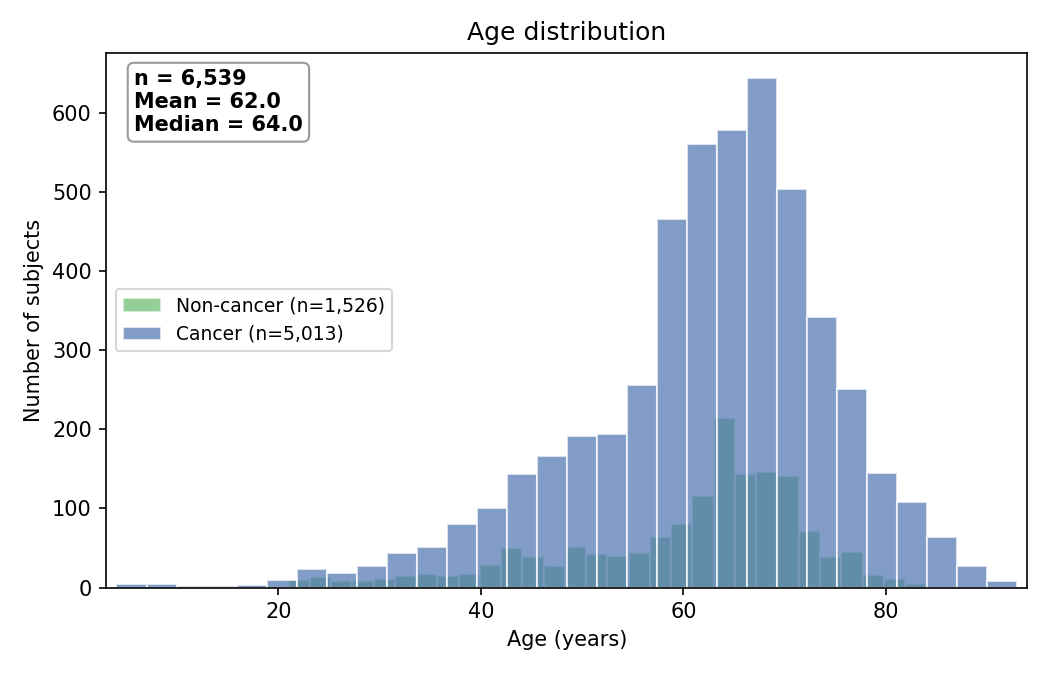
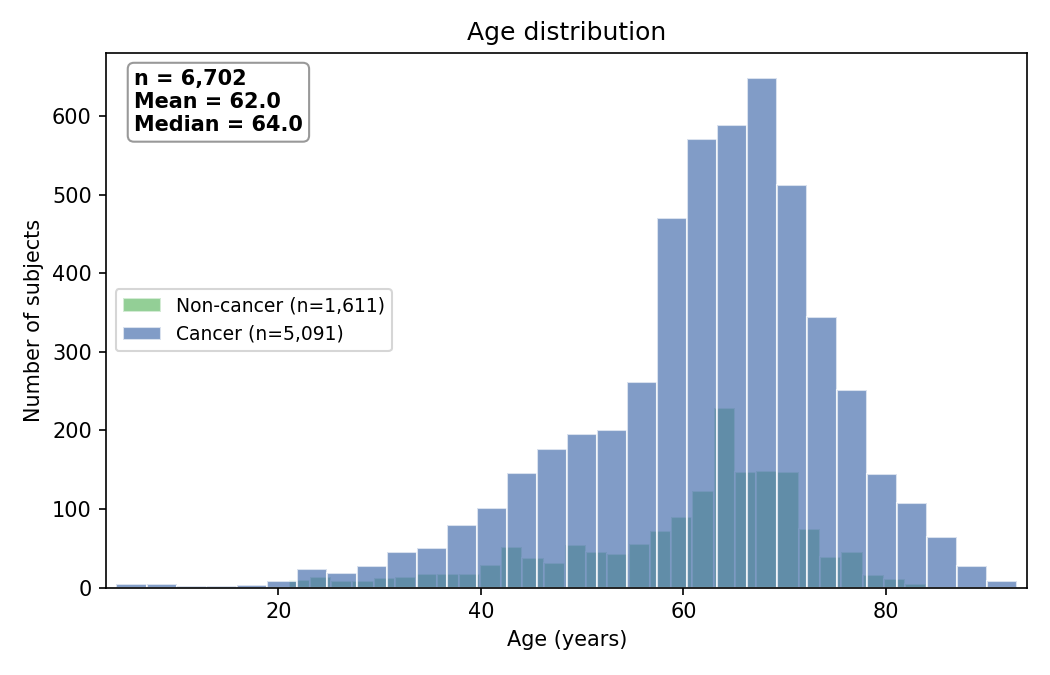
Update dashboard 2026-09-08 15:10

diff --git a/global_map.html b/global_map.html
@@ -2,6 +2,6 @@
 <head><meta charset="utf-8" /></head>
 <body>
     <div style="height:500px; width:100%;">                        <script>window.PlotlyConfig = {MathJaxConfig: 'local'};</script>
-        <script charset="utf-8" src="https://cdn.plot.ly/plotly-3.7.0.min.js" integrity="sha256-jvTGqxNp8AGWEcvNLVuKr+8j5dGe9Yw51LQkmDH+IYA=" crossorigin="anonymous"></script>                <div id="85c4ba30-f405-46a7-adb1-b81d0f31154e" class="plotly-graph-div" style="height:100%; width:100%;"></div>            <script>                window.PLOTLYENV=window.PLOTLYENV || {};                                if (document.getElementById("85c4ba30-f405-46a7-adb1-b81d0f31154e")) {                    Plotly.newPlot(                        "85c4ba30-f405-46a7-adb1-b81d0f31154e",                        [{"colorscale":[[0,"#FEF9E7"],[1,"#E59866"]],"hoverinfo":"text","locations":["AUT","CAN","CHN","CZE","FRA","DEU","IND","ISR","ITA","JPN","NLD","POL","KOR","ESP","CHE","TUR","GBR","USA"],"marker":{"line":{"color":"white","width":0.5}},"showscale":false,"text":["\u003cb\u003eAustria\u003c\u002fb\u003e\u003cbr\u003eTotal samples: 154\u003cbr\u003eStudies: 1\u003cbr\u003e\u2500\u2500\u2500\u2500\u2500\u2500\u2500\u2500\u2500\u2500\u2500\u2500\u2500\u003cbr\u003eCRC: 93","\u003cb\u003eCanada\u003c\u002fb\u003e\u003cbr\u003eTotal samples: 98\u003cbr\u003eStudies: 2\u003cbr\u003e\u2500\u2500\u2500\u2500\u2500\u2500\u2500\u2500\u2500\u2500\u2500\u2500\u2500\u003cbr\u003eMelanoma: 60\u003cbr\u003eCRC: 24","\u003cb\u003eChina\u003c\u002fb\u003e\u003cbr\u003eTotal samples: 756\u003cbr\u003eStudies: 7\u003cbr\u003e\u2500\u2500\u2500\u2500\u2500\u2500\u2500\u2500\u2500\u2500\u2500\u2500\u2500\u003cbr\u003eCRC: 418\u003cbr\u003eLymphoma: 111\u003cbr\u003eLeukemia: 20","\u003cb\u003eCzech Republic\u003c\u002fb\u003e\u003cbr\u003eTotal samples: 327\u003cbr\u003eStudies: 2\u003cbr\u003e\u2500\u2500\u2500\u2500\u2500\u2500\u2500\u2500\u2500\u2500\u2500\u2500\u2500\u003cbr\u003eCRC: 281","\u003cb\u003eFrance\u003c\u002fb\u003e\u003cbr\u003eTotal samples: 1,373\u003cbr\u003eStudies: 4\u003cbr\u003e\u2500\u2500\u2500\u2500\u2500\u2500\u2500\u2500\u2500\u2500\u2500\u2500\u2500\u003cbr\u003eLung Cancer: 1,217\u003cbr\u003eCRC: 95","\u003cb\u003eGermany\u003c\u002fb\u003e\u003cbr\u003eTotal samples: 430\u003cbr\u003eStudies: 3\u003cbr\u003e\u2500\u2500\u2500\u2500\u2500\u2500\u2500\u2500\u2500\u2500\u2500\u2500\u2500\u003cbr\u003eLymphoma: 229\u003cbr\u003ePancreatic Cancer: 76\u003cbr\u003eCRC: 60","\u003cb\u003eIndia\u003c\u002fb\u003e\u003cbr\u003eTotal samples: 90\u003cbr\u003eStudies: 2\u003cbr\u003e\u2500\u2500\u2500\u2500\u2500\u2500\u2500\u2500\u2500\u2500\u2500\u2500\u2500\u003cbr\u003eCRC: 60","\u003cb\u003eIsrael\u003c\u002fb\u003e\u003cbr\u003eTotal samples: 42\u003cbr\u003eStudies: 1\u003cbr\u003e\u2500\u2500\u2500\u2500\u2500\u2500\u2500\u2500\u2500\u2500\u2500\u2500\u2500\u003cbr\u003eMelanoma: 42","\u003cb\u003eItaly\u003c\u002fb\u003e\u003cbr\u003eTotal samples: 484\u003cbr\u003eStudies: 4\u003cbr\u003e\u2500\u2500\u2500\u2500\u2500\u2500\u2500\u2500\u2500\u2500\u2500\u2500\u2500\u003cbr\u003eCRC: 373","\u003cb\u003eJapan\u003c\u002fb\u003e\u003cbr\u003eTotal samples: 1,766\u003cbr\u003eStudies: 4\u003cbr\u003e\u2500\u2500\u2500\u2500\u2500\u2500\u2500\u2500\u2500\u2500\u2500\u2500\u2500\u003cbr\u003eCRC: 807\u003cbr\u003ePancreatic Cancer: 560","\u003cb\u003eNetherlands\u003c\u002fb\u003e\u003cbr\u003eTotal samples: 75\u003cbr\u003eStudies: 2\u003cbr\u003e\u2500\u2500\u2500\u2500\u2500\u2500\u2500\u2500\u2500\u2500\u2500\u2500\u2500\u003cbr\u003eMelanoma: 75","\u003cb\u003ePoland\u003c\u002fb\u003e\u003cbr\u003eTotal samples: 322\u003cbr\u003eStudies: 2\u003cbr\u003e\u2500\u2500\u2500\u2500\u2500\u2500\u2500\u2500\u2500\u2500\u2500\u2500\u2500\u003cbr\u003eBreast Cancer: 153\u003cbr\u003eLymphoma: 60\u003cbr\u003eLeukemia: 40","\u003cb\u003eSouth Korea\u003c\u002fb\u003e\u003cbr\u003eTotal samples: 149\u003cbr\u003eStudies: 2\u003cbr\u003e\u2500\u2500\u2500\u2500\u2500\u2500\u2500\u2500\u2500\u2500\u2500\u2500\u2500\u003cbr\u003eLymphoma: 149","\u003cb\u003eSpain\u003c\u002fb\u003e\u003cbr\u003eTotal samples: 355\u003cbr\u003eStudies: 3\u003cbr\u003e\u2500\u2500\u2500\u2500\u2500\u2500\u2500\u2500\u2500\u2500\u2500\u2500\u2500\u003cbr\u003ePancreatic Cancer: 253\u003cbr\u003eCRC: 90\u003cbr\u003eMelanoma: 12","\u003cb\u003eSwitzerland\u003c\u002fb\u003e\u003cbr\u003eTotal samples: 29\u003cbr\u003eStudies: 1\u003cbr\u003e\u2500\u2500\u2500\u2500\u2500\u2500\u2500\u2500\u2500\u2500\u2500\u2500\u2500\u003cbr\u003eProstate Cancer: 29","\u003cb\u003eTurkey\u003c\u002fb\u003e\u003cbr\u003eTotal samples: 57\u003cbr\u003eStudies: 1\u003cbr\u003e\u2500\u2500\u2500\u2500\u2500\u2500\u2500\u2500\u2500\u2500\u2500\u2500\u2500\u003cbr\u003eCRC: 18","\u003cb\u003eUnited Kingdom\u003c\u002fb\u003e\u003cbr\u003eTotal samples: 143\u003cbr\u003eStudies: 2\u003cbr\u003e\u2500\u2500\u2500\u2500\u2500\u2500\u2500\u2500\u2500\u2500\u2500\u2500\u2500\u003cbr\u003eMelanoma: 98\u003cbr\u003eProstate Cancer: 45","\u003cb\u003eUnited States\u003c\u002fb\u003e\u003cbr\u003eTotal samples: 2,096\u003cbr\u003eStudies: 13\u003cbr\u003e\u2500\u2500\u2500\u2500\u2500\u2500\u2500\u2500\u2500\u2500\u2500\u2500\u2500\u003cbr\u003eCRC: 836\u003cbr\u003eMelanoma: 607\u003cbr\u003eLymphoma: 122"],"z":{"dtype":"i2","bdata":"mgBiAPQCRwFdBa4BWgAqAOQB5gZLAEIBlQBjAR0AOQCPADAI"},"type":"choropleth"},{"hoverinfo":"text","locations":["AUT","CAN","CHN","CZE","FRA","DEU","IND","ISR","ITA","JPN","NLD","POL","KOR","ESP","CHE","TUR","GBR","USA"],"marker":{"color":"#2166AC","line":{"color":"white","width":1},"opacity":0.7,"size":{"dtype":"f8","bdata":"AAAAAAAAIEAAAAAAAAAgQD0K16NwPS5AAAAAAAAAIED2KFyPwnU7QDMzMzMzMyFAAAAAAAAAIEAAAAAAAAAgQFyPwvUoXCNAKVyPwvWoQUAAAAAAAAAgQAAAAAAAACBAAAAAAAAAIEAAAAAAAAAgQAAAAAAAACBAAAAAAAAAIEAAAAAAAAAgQPYoXI\u002fC9URA"}},"mode":"markers","text":["\u003cb\u003eAustria\u003c\u002fb\u003e\u003cbr\u003eTotal samples: 154\u003cbr\u003eStudies: 1\u003cbr\u003e\u2500\u2500\u2500\u2500\u2500\u2500\u2500\u2500\u2500\u2500\u2500\u2500\u2500\u003cbr\u003eCRC: 93","\u003cb\u003eCanada\u003c\u002fb\u003e\u003cbr\u003eTotal samples: 98\u003cbr\u003eStudies: 2\u003cbr\u003e\u2500\u2500\u2500\u2500\u2500\u2500\u2500\u2500\u2500\u2500\u2500\u2500\u2500\u003cbr\u003eMelanoma: 60\u003cbr\u003eCRC: 24","\u003cb\u003eChina\u003c\u002fb\u003e\u003cbr\u003eTotal samples: 756\u003cbr\u003eStudies: 7\u003cbr\u003e\u2500\u2500\u2500\u2500\u2500\u2500\u2500\u2500\u2500\u2500\u2500\u2500\u2500\u003cbr\u003eCRC: 418\u003cbr\u003eLymphoma: 111\u003cbr\u003eLeukemia: 20","\u003cb\u003eCzech Republic\u003c\u002fb\u003e\u003cbr\u003eTotal samples: 327\u003cbr\u003eStudies: 2\u003cbr\u003e\u2500\u2500\u2500\u2500\u2500\u2500\u2500\u2500\u2500\u2500\u2500\u2500\u2500\u003cbr\u003eCRC: 281","\u003cb\u003eFrance\u003c\u002fb\u003e\u003cbr\u003eTotal samples: 1,373\u003cbr\u003eStudies: 4\u003cbr\u003e\u2500\u2500\u2500\u2500\u2500\u2500\u2500\u2500\u2500\u2500\u2500\u2500\u2500\u003cbr\u003eLung Cancer: 1,217\u003cbr\u003eCRC: 95","\u003cb\u003eGermany\u003c\u002fb\u003e\u003cbr\u003eTotal samples: 430\u003cbr\u003eStudies: 3\u003cbr\u003e\u2500\u2500\u2500\u2500\u2500\u2500\u2500\u2500\u2500\u2500\u2500\u2500\u2500\u003cbr\u003eLymphoma: 229\u003cbr\u003ePancreatic Cancer: 76\u003cbr\u003eCRC: 60","\u003cb\u003eIndia\u003c\u002fb\u003e\u003cbr\u003eTotal samples: 90\u003cbr\u003eStudies: 2\u003cbr\u003e\u2500\u2500\u2500\u2500\u2500\u2500\u2500\u2500\u2500\u2500\u2500\u2500\u2500\u003cbr\u003eCRC: 60","\u003cb\u003eIsrael\u003c\u002fb\u003e\u003cbr\u003eTotal samples: 42\u003cbr\u003eStudies: 1\u003cbr\u003e\u2500\u2500\u2500\u2500\u2500\u2500\u2500\u2500\u2500\u2500\u2500\u2500\u2500\u003cbr\u003eMelanoma: 42","\u003cb\u003eItaly\u003c\u002fb\u003e\u003cbr\u003eTotal samples: 484\u003cbr\u003eStudies: 4\u003cbr\u003e\u2500\u2500\u2500\u2500\u2500\u2500\u2500\u2500\u2500\u2500\u2500\u2500\u2500\u003cbr\u003eCRC: 373","\u003cb\u003eJapan\u003c\u002fb\u003e\u003cbr\u003eTotal samples: 1,766\u003cbr\u003eStudies: 4\u003cbr\u003e\u2500\u2500\u2500\u2500\u2500\u2500\u2500\u2500\u2500\u2500\u2500\u2500\u2500\u003cbr\u003eCRC: 807\u003cbr\u003ePancreatic Cancer: 560","\u003cb\u003eNetherlands\u003c\u002fb\u003e\u003cbr\u003eTotal samples: 75\u003cbr\u003eStudies: 2\u003cbr\u003e\u2500\u2500\u2500\u2500\u2500\u2500\u2500\u2500\u2500\u2500\u2500\u2500\u2500\u003cbr\u003eMelanoma: 75","\u003cb\u003ePoland\u003c\u002fb\u003e\u003cbr\u003eTotal samples: 322\u003cbr\u003eStudies: 2\u003cbr\u003e\u2500\u2500\u2500\u2500\u2500\u2500\u2500\u2500\u2500\u2500\u2500\u2500\u2500\u003cbr\u003eBreast Cancer: 153\u003cbr\u003eLymphoma: 60\u003cbr\u003eLeukemia: 40","\u003cb\u003eSouth Korea\u003c\u002fb\u003e\u003cbr\u003eTotal samples: 149\u003cbr\u003eStudies: 2\u003cbr\u003e\u2500\u2500\u2500\u2500\u2500\u2500\u2500\u2500\u2500\u2500\u2500\u2500\u2500\u003cbr\u003eLymphoma: 149","\u003cb\u003eSpain\u003c\u002fb\u003e\u003cbr\u003eTotal samples: 355\u003cbr\u003eStudies: 3\u003cbr\u003e\u2500\u2500\u2500\u2500\u2500\u2500\u2500\u2500\u2500\u2500\u2500\u2500\u2500\u003cbr\u003ePancreatic Cancer: 253\u003cbr\u003eCRC: 90\u003cbr\u003eMelanoma: 12","\u003cb\u003eSwitzerland\u003c\u002fb\u003e\u003cbr\u003eTotal samples: 29\u003cbr\u003eStudies: 1\u003cbr\u003e\u2500\u2500\u2500\u2500\u2500\u2500\u2500\u2500\u2500\u2500\u2500\u2500\u2500\u003cbr\u003eProstate Cancer: 29","\u003cb\u003eTurkey\u003c\u002fb\u003e\u003cbr\u003eTotal samples: 57\u003cbr\u003eStudies: 1\u003cbr\u003e\u2500\u2500\u2500\u2500\u2500\u2500\u2500\u2500\u2500\u2500\u2500\u2500\u2500\u003cbr\u003eCRC: 18","\u003cb\u003eUnited Kingdom\u003c\u002fb\u003e\u003cbr\u003eTotal samples: 143\u003cbr\u003eStudies: 2\u003cbr\u003e\u2500\u2500\u2500\u2500\u2500\u2500\u2500\u2500\u2500\u2500\u2500\u2500\u2500\u003cbr\u003eMelanoma: 98\u003cbr\u003eProstate Cancer: 45","\u003cb\u003eUnited States\u003c\u002fb\u003e\u003cbr\u003eTotal samples: 2,096\u003cbr\u003eStudies: 13\u003cbr\u003e\u2500\u2500\u2500\u2500\u2500\u2500\u2500\u2500\u2500\u2500\u2500\u2500\u2500\u003cbr\u003eCRC: 836\u003cbr\u003eMelanoma: 607\u003cbr\u003eLymphoma: 122"],"type":"scattergeo"}],                        {"template":{"data":{"histogram2dcontour":[{"type":"histogram2dcontour","colorbar":{"outlinewidth":0,"ticks":""},"colorscale":[[0.0,"#0d0887"],[0.1111111111111111,"#46039f"],[0.2222222222222222,"#7201a8"],[0.3333333333333333,"#9c179e"],[0.4444444444444444,"#bd3786"],[0.5555555555555556,"#d8576b"],[0.6666666666666666,"#ed7953"],[0.7777777777777778,"#fb9f3a"],[0.8888888888888888,"#fdca26"],[1.0,"#f0f921"]]}],"choropleth":[{"type":"choropleth","colorbar":{"outlinewidth":0,"ticks":""}}],"histogram2d":[{"type":"histogram2d","colorbar":{"outlinewidth":0,"ticks":""},"colorscale":[[0.0,"#0d0887"],[0.1111111111111111,"#46039f"],[0.2222222222222222,"#7201a8"],[0.3333333333333333,"#9c179e"],[0.4444444444444444,"#bd3786"],[0.5555555555555556,"#d8576b"],[0.6666666666666666,"#ed7953"],[0.7777777777777778,"#fb9f3a"],[0.8888888888888888,"#fdca26"],[1.0,"#f0f921"]]}],"heatmap":[{"type":"heatmap","colorbar":{"outlinewidth":0,"ticks":""},"colorscale":[[0.0,"#0d0887"],[0.1111111111111111,"#46039f"],[0.2222222222222222,"#7201a8"],[0.3333333333333333,"#9c179e"],[0.4444444444444444,"#bd3786"],[0.5555555555555556,"#d8576b"],[0.6666666666666666,"#ed7953"],[0.7777777777777778,"#fb9f3a"],[0.8888888888888888,"#fdca26"],[1.0,"#f0f921"]]}],"contourcarpet":[{"type":"contourcarpet","colorbar":{"outlinewidth":0,"ticks":""}}],"contour":[{"type":"contour","colorbar":{"outlinewidth":0,"ticks":""},"colorscale":[[0.0,"#0d0887"],[0.1111111111111111,"#46039f"],[0.2222222222222222,"#7201a8"],[0.3333333333333333,"#9c179e"],[0.4444444444444444,"#bd3786"],[0.5555555555555556,"#d8576b"],[0.6666666666666666,"#ed7953"],[0.7777777777777778,"#fb9f3a"],[0.8888888888888888,"#fdca26"],[1.0,"#f0f921"]]}],"surface":[{"type":"surface","colorbar":{"outlinewidth":0,"ticks":""},"colorscale":[[0.0,"#0d0887"],[0.1111111111111111,"#46039f"],[0.2222222222222222,"#7201a8"],[0.3333333333333333,"#9c179e"],[0.4444444444444444,"#bd3786"],[0.5555555555555556,"#d8576b"],[0.6666666666666666,"#ed7953"],[0.7777777777777778,"#fb9f3a"],[0.8888888888888888,"#fdca26"],[1.0,"#f0f921"]]}],"mesh3d":[{"type":"mesh3d","colorbar":{"outlinewidth":0,"ticks":""}}],"scatter":[{"fillpattern":{"fillmode":"overlay","size":10,"solidity":0.2},"type":"scatter"}],"parcoords":[{"type":"parcoords","line":{"colorbar":{"outlinewidth":0,"ticks":""}}}],"scatterpolargl":[{"type":"scatterpolargl","marker":{"colorbar":{"outlinewidth":0,"ticks":""}}}],"bar":[{"error_x":{"color":"#2a3f5f"},"error_y":{"color":"#2a3f5f"},"marker":{"line":{"color":"#E5ECF6","width":0.5},"pattern":{"fillmode":"overlay","size":10,"solidity":0.2}},"type":"bar"}],"scattergeo":[{"type":"scattergeo","marker":{"colorbar":{"outlinewidth":0,"ticks":""}}}],"scatterpolar":[{"type":"scatterpolar","marker":{"colorbar":{"outlinewidth":0,"ticks":""}}}],"histogram":[{"marker":{"pattern":{"fillmode":"overlay","size":10,"solidity":0.2}},"type":"histogram"}],"scattergl":[{"type":"scattergl","marker":{"colorbar":{"outlinewidth":0,"ticks":""}}}],"scatter3d":[{"type":"scatter3d","line":{"colorbar":{"outlinewidth":0,"ticks":""}},"marker":{"colorbar":{"outlinewidth":0,"ticks":""}}}],"scattermap":[{"type":"scattermap","marker":{"colorbar":{"outlinewidth":0,"ticks":""}}}],"scattermapbox":[{"type":"scattermapbox","marker":{"colorbar":{"outlinewidth":0,"ticks":""}}}],"scatterternary":[{"type":"scatterternary","marker":{"colorbar":{"outlinewidth":0,"ticks":""}}}],"scattercarpet":[{"type":"scattercarpet","marker":{"colorbar":{"outlinewidth":0,"ticks":""}}}],"carpet":[{"aaxis":{"endlinecolor":"#2a3f5f","gridcolor":"white","linecolor":"white","minorgridcolor":"white","startlinecolor":"#2a3f5f"},"baxis":{"endlinecolor":"#2a3f5f","gridcolor":"white","linecolor":"white","minorgridcolor":"white","startlinecolor":"#2a3f5f"},"type":"carpet"}],"table":[{"cells":{"fill":{"color":"#EBF0F8"},"line":{"color":"white"}},"header":{"fill":{"color":"#C8D4E3"},"line":{"color":"white"}},"type":"table"}],"barpolar":[{"marker":{"line":{"color":"#E5ECF6","width":0.5},"pattern":{"fillmode":"overlay","size":10,"solidity":0.2}},"type":"barpolar"}],"pie":[{"automargin":true,"type":"pie"}]},"layout":{"autotypenumbers":"strict","colorway":["#636efa","#EF553B","#00cc96","#ab63fa","#FFA15A","#19d3f3","#FF6692","#B6E880","#FF97FF","#FECB52"],"font":{"color":"#2a3f5f"},"hovermode":"closest","hoverlabel":{"align":"left"},"paper_bgcolor":"white","plot_bgcolor":"#E5ECF6","polar":{"bgcolor":"#E5ECF6","angularaxis":{"gridcolor":"white","linecolor":"white","ticks":""},"radialaxis":{"gridcolor":"white","linecolor":"white","ticks":""}},"ternary":{"bgcolor":"#E5ECF6","aaxis":{"gridcolor":"white","linecolor":"white","ticks":""},"baxis":{"gridcolor":"white","linecolor":"white","ticks":""},"caxis":{"gridcolor":"white","linecolor":"white","ticks":""}},"coloraxis":{"colorbar":{"outlinewidth":0,"ticks":""}},"colorscale":{"sequential":[[0.0,"#0d0887"],[0.1111111111111111,"#46039f"],[0.2222222222222222,"#7201a8"],[0.3333333333333333,"#9c179e"],[0.4444444444444444,"#bd3786"],[0.5555555555555556,"#d8576b"],[0.6666666666666666,"#ed7953"],[0.7777777777777778,"#fb9f3a"],[0.8888888888888888,"#fdca26"],[1.0,"#f0f921"]],"sequentialminus":[[0.0,"#0d0887"],[0.1111111111111111,"#46039f"],[0.2222222222222222,"#7201a8"],[0.3333333333333333,"#9c179e"],[0.4444444444444444,"#bd3786"],[0.5555555555555556,"#d8576b"],[0.6666666666666666,"#ed7953"],[0.7777777777777778,"#fb9f3a"],[0.8888888888888888,"#fdca26"],[1.0,"#f0f921"]],"diverging":[[0,"#8e0152"],[0.1,"#c51b7d"],[0.2,"#de77ae"],[0.3,"#f1b6da"],[0.4,"#fde0ef"],[0.5,"#f7f7f7"],[0.6,"#e6f5d0"],[0.7,"#b8e186"],[0.8,"#7fbc41"],[0.9,"#4d9221"],[1,"#276419"]]},"xaxis":{"gridcolor":"white","linecolor":"white","ticks":"","title":{"standoff":15},"zerolinecolor":"white","automargin":true,"zerolinewidth":2},"yaxis":{"gridcolor":"white","linecolor":"white","ticks":"","title":{"standoff":15},"zerolinecolor":"white","automargin":true,"zerolinewidth":2},"scene":{"xaxis":{"backgroundcolor":"#E5ECF6","gridcolor":"white","linecolor":"white","showbackground":true,"ticks":"","zerolinecolor":"white","gridwidth":2},"yaxis":{"backgroundcolor":"#E5ECF6","gridcolor":"white","linecolor":"white","showbackground":true,"ticks":"","zerolinecolor":"white","gridwidth":2},"zaxis":{"backgroundcolor":"#E5ECF6","gridcolor":"white","linecolor":"white","showbackground":true,"ticks":"","zerolinecolor":"white","gridwidth":2}},"shapedefaults":{"line":{"color":"#2a3f5f"}},"annotationdefaults":{"arrowcolor":"#2a3f5f","arrowhead":0,"arrowwidth":1},"geo":{"bgcolor":"white","landcolor":"#E5ECF6","subunitcolor":"white","showland":true,"showlakes":true,"lakecolor":"white"},"title":{"x":0.05},"mapbox":{"style":"light"}}},"geo":{"projection":{"type":"natural earth"},"showframe":false,"showcoastlines":true,"coastlinecolor":"grey","showland":true,"landcolor":"#F5F5F2","showocean":true,"oceancolor":"#EAF2F8","showlakes":false,"bgcolor":"#EAF2F8"},"margin":{"l":0,"r":0,"t":30,"b":0},"title":{"font":{"size":16},"text":"Global distribution of cancer microbiome studies","x":0.5},"hoverlabel":{"font":{"size":13,"family":"Arial"},"bgcolor":"white"},"height":500,"paper_bgcolor":"white"},                        {"responsive": true}                    )                };            </script>        </div>
+        <script charset="utf-8" src="https://cdn.plot.ly/plotly-3.7.0.min.js" integrity="sha256-jvTGqxNp8AGWEcvNLVuKr+8j5dGe9Yw51LQkmDH+IYA=" crossorigin="anonymous"></script>                <div id="7407e21a-e05d-4d1e-937c-799959f597c7" class="plotly-graph-div" style="height:100%; width:100%;"></div>            <script>                window.PLOTLYENV=window.PLOTLYENV || {};                                if (document.getElementById("7407e21a-e05d-4d1e-937c-799959f597c7")) {                    Plotly.newPlot(                        "7407e21a-e05d-4d1e-937c-799959f597c7",                        [{"colorscale":[[0,"#FEF9E7"],[1,"#E59866"]],"hoverinfo":"text","locations":["AUT","CAN","CHN","CZE","FRA","DEU","IND","ISR","ITA","JPN","NLD","POL","KOR","ESP","CHE","TUR","GBR","USA"],"marker":{"line":{"color":"white","width":0.5}},"showscale":false,"text":["\u003cb\u003eAustria\u003c\u002fb\u003e\u003cbr\u003eTotal samples: 154\u003cbr\u003eStudies: 1\u003cbr\u003e\u2500\u2500\u2500\u2500\u2500\u2500\u2500\u2500\u2500\u2500\u2500\u2500\u2500\u003cbr\u003eCRC: 93","\u003cb\u003eCanada\u003c\u002fb\u003e\u003cbr\u003eTotal samples: 98\u003cbr\u003eStudies: 2\u003cbr\u003e\u2500\u2500\u2500\u2500\u2500\u2500\u2500\u2500\u2500\u2500\u2500\u2500\u2500\u003cbr\u003eMelanoma: 60\u003cbr\u003eCRC: 24","\u003cb\u003eChina\u003c\u002fb\u003e\u003cbr\u003eTotal samples: 1,119\u003cbr\u003eStudies: 9\u003cbr\u003e\u2500\u2500\u2500\u2500\u2500\u2500\u2500\u2500\u2500\u2500\u2500\u2500\u2500\u003cbr\u003eCRC: 596\u003cbr\u003eLymphoma: 111\u003cbr\u003eLeukemia: 20","\u003cb\u003eCzech Republic\u003c\u002fb\u003e\u003cbr\u003eTotal samples: 327\u003cbr\u003eStudies: 2\u003cbr\u003e\u2500\u2500\u2500\u2500\u2500\u2500\u2500\u2500\u2500\u2500\u2500\u2500\u2500\u003cbr\u003eCRC: 281","\u003cb\u003eFrance\u003c\u002fb\u003e\u003cbr\u003eTotal samples: 1,373\u003cbr\u003eStudies: 4\u003cbr\u003e\u2500\u2500\u2500\u2500\u2500\u2500\u2500\u2500\u2500\u2500\u2500\u2500\u2500\u003cbr\u003eLung Cancer: 1,217\u003cbr\u003eCRC: 95","\u003cb\u003eGermany\u003c\u002fb\u003e\u003cbr\u003eTotal samples: 430\u003cbr\u003eStudies: 3\u003cbr\u003e\u2500\u2500\u2500\u2500\u2500\u2500\u2500\u2500\u2500\u2500\u2500\u2500\u2500\u003cbr\u003eLymphoma: 229\u003cbr\u003ePancreatic Cancer: 76\u003cbr\u003eCRC: 60","\u003cb\u003eIndia\u003c\u002fb\u003e\u003cbr\u003eTotal samples: 90\u003cbr\u003eStudies: 2\u003cbr\u003e\u2500\u2500\u2500\u2500\u2500\u2500\u2500\u2500\u2500\u2500\u2500\u2500\u2500\u003cbr\u003eCRC: 60","\u003cb\u003eIsrael\u003c\u002fb\u003e\u003cbr\u003eTotal samples: 42\u003cbr\u003eStudies: 1\u003cbr\u003e\u2500\u2500\u2500\u2500\u2500\u2500\u2500\u2500\u2500\u2500\u2500\u2500\u2500\u003cbr\u003eMelanoma: 42","\u003cb\u003eItaly\u003c\u002fb\u003e\u003cbr\u003eTotal samples: 484\u003cbr\u003eStudies: 4\u003cbr\u003e\u2500\u2500\u2500\u2500\u2500\u2500\u2500\u2500\u2500\u2500\u2500\u2500\u2500\u003cbr\u003eCRC: 373","\u003cb\u003eJapan\u003c\u002fb\u003e\u003cbr\u003eTotal samples: 1,766\u003cbr\u003eStudies: 4\u003cbr\u003e\u2500\u2500\u2500\u2500\u2500\u2500\u2500\u2500\u2500\u2500\u2500\u2500\u2500\u003cbr\u003eCRC: 807\u003cbr\u003ePancreatic Cancer: 560","\u003cb\u003eNetherlands\u003c\u002fb\u003e\u003cbr\u003eTotal samples: 75\u003cbr\u003eStudies: 2\u003cbr\u003e\u2500\u2500\u2500\u2500\u2500\u2500\u2500\u2500\u2500\u2500\u2500\u2500\u2500\u003cbr\u003eMelanoma: 75","\u003cb\u003ePoland\u003c\u002fb\u003e\u003cbr\u003eTotal samples: 322\u003cbr\u003eStudies: 2\u003cbr\u003e\u2500\u2500\u2500\u2500\u2500\u2500\u2500\u2500\u2500\u2500\u2500\u2500\u2500\u003cbr\u003eBreast Cancer: 153\u003cbr\u003eLymphoma: 60\u003cbr\u003eLeukemia: 40","\u003cb\u003eSouth Korea\u003c\u002fb\u003e\u003cbr\u003eTotal samples: 149\u003cbr\u003eStudies: 2\u003cbr\u003e\u2500\u2500\u2500\u2500\u2500\u2500\u2500\u2500\u2500\u2500\u2500\u2500\u2500\u003cbr\u003eLymphoma: 149","\u003cb\u003eSpain\u003c\u002fb\u003e\u003cbr\u003eTotal samples: 355\u003cbr\u003eStudies: 3\u003cbr\u003e\u2500\u2500\u2500\u2500\u2500\u2500\u2500\u2500\u2500\u2500\u2500\u2500\u2500\u003cbr\u003ePancreatic Cancer: 253\u003cbr\u003eCRC: 90\u003cbr\u003eMelanoma: 12","\u003cb\u003eSwitzerland\u003c\u002fb\u003e\u003cbr\u003eTotal samples: 29\u003cbr\u003eStudies: 1\u003cbr\u003e\u2500\u2500\u2500\u2500\u2500\u2500\u2500\u2500\u2500\u2500\u2500\u2500\u2500\u003cbr\u003eProstate Cancer: 29","\u003cb\u003eTurkey\u003c\u002fb\u003e\u003cbr\u003eTotal samples: 57\u003cbr\u003eStudies: 1\u003cbr\u003e\u2500\u2500\u2500\u2500\u2500\u2500\u2500\u2500\u2500\u2500\u2500\u2500\u2500\u003cbr\u003eCRC: 18","\u003cb\u003eUnited Kingdom\u003c\u002fb\u003e\u003cbr\u003eTotal samples: 143\u003cbr\u003eStudies: 2\u003cbr\u003e\u2500\u2500\u2500\u2500\u2500\u2500\u2500\u2500\u2500\u2500\u2500\u2500\u2500\u003cbr\u003eMelanoma: 98\u003cbr\u003eProstate Cancer: 45","\u003cb\u003eUnited States\u003c\u002fb\u003e\u003cbr\u003eTotal samples: 2,096\u003cbr\u003eStudies: 13\u003cbr\u003e\u2500\u2500\u2500\u2500\u2500\u2500\u2500\u2500\u2500\u2500\u2500\u2500\u2500\u003cbr\u003eCRC: 836\u003cbr\u003eMelanoma: 607\u003cbr\u003eLymphoma: 122"],"z":{"dtype":"i2","bdata":"mgBiAF8ERwFdBa4BWgAqAOQB5gZLAEIBlQBjAR0AOQCPADAI"},"type":"choropleth"},{"hoverinfo":"text","locations":["AUT","CAN","CHN","CZE","FRA","DEU","IND","ISR","ITA","JPN","NLD","POL","KOR","ESP","CHE","TUR","GBR","USA"],"marker":{"color":"#2166AC","line":{"color":"white","width":1},"opacity":0.7,"size":{"dtype":"f8","bdata":"AAAAAAAAIEAAAAAAAAAgQOF6FK5HYTZAAAAAAAAAIED2KFyPwnU7QDMzMzMzMyFAAAAAAAAAIEAAAAAAAAAgQFyPwvUoXCNAKVyPwvWoQUAAAAAAAAAgQAAAAAAAACBAAAAAAAAAIEAAAAAAAAAgQAAAAAAAACBAAAAAAAAAIEAAAAAAAAAgQPYoXI\u002fC9URA"}},"mode":"markers","text":["\u003cb\u003eAustria\u003c\u002fb\u003e\u003cbr\u003eTotal samples: 154\u003cbr\u003eStudies: 1\u003cbr\u003e\u2500\u2500\u2500\u2500\u2500\u2500\u2500\u2500\u2500\u2500\u2500\u2500\u2500\u003cbr\u003eCRC: 93","\u003cb\u003eCanada\u003c\u002fb\u003e\u003cbr\u003eTotal samples: 98\u003cbr\u003eStudies: 2\u003cbr\u003e\u2500\u2500\u2500\u2500\u2500\u2500\u2500\u2500\u2500\u2500\u2500\u2500\u2500\u003cbr\u003eMelanoma: 60\u003cbr\u003eCRC: 24","\u003cb\u003eChina\u003c\u002fb\u003e\u003cbr\u003eTotal samples: 1,119\u003cbr\u003eStudies: 9\u003cbr\u003e\u2500\u2500\u2500\u2500\u2500\u2500\u2500\u2500\u2500\u2500\u2500\u2500\u2500\u003cbr\u003eCRC: 596\u003cbr\u003eLymphoma: 111\u003cbr\u003eLeukemia: 20","\u003cb\u003eCzech Republic\u003c\u002fb\u003e\u003cbr\u003eTotal samples: 327\u003cbr\u003eStudies: 2\u003cbr\u003e\u2500\u2500\u2500\u2500\u2500\u2500\u2500\u2500\u2500\u2500\u2500\u2500\u2500\u003cbr\u003eCRC: 281","\u003cb\u003eFrance\u003c\u002fb\u003e\u003cbr\u003eTotal samples: 1,373\u003cbr\u003eStudies: 4\u003cbr\u003e\u2500\u2500\u2500\u2500\u2500\u2500\u2500\u2500\u2500\u2500\u2500\u2500\u2500\u003cbr\u003eLung Cancer: 1,217\u003cbr\u003eCRC: 95","\u003cb\u003eGermany\u003c\u002fb\u003e\u003cbr\u003eTotal samples: 430\u003cbr\u003eStudies: 3\u003cbr\u003e\u2500\u2500\u2500\u2500\u2500\u2500\u2500\u2500\u2500\u2500\u2500\u2500\u2500\u003cbr\u003eLymphoma: 229\u003cbr\u003ePancreatic Cancer: 76\u003cbr\u003eCRC: 60","\u003cb\u003eIndia\u003c\u002fb\u003e\u003cbr\u003eTotal samples: 90\u003cbr\u003eStudies: 2\u003cbr\u003e\u2500\u2500\u2500\u2500\u2500\u2500\u2500\u2500\u2500\u2500\u2500\u2500\u2500\u003cbr\u003eCRC: 60","\u003cb\u003eIsrael\u003c\u002fb\u003e\u003cbr\u003eTotal samples: 42\u003cbr\u003eStudies: 1\u003cbr\u003e\u2500\u2500\u2500\u2500\u2500\u2500\u2500\u2500\u2500\u2500\u2500\u2500\u2500\u003cbr\u003eMelanoma: 42","\u003cb\u003eItaly\u003c\u002fb\u003e\u003cbr\u003eTotal samples: 484\u003cbr\u003eStudies: 4\u003cbr\u003e\u2500\u2500\u2500\u2500\u2500\u2500\u2500\u2500\u2500\u2500\u2500\u2500\u2500\u003cbr\u003eCRC: 373","\u003cb\u003eJapan\u003c\u002fb\u003e\u003cbr\u003eTotal samples: 1,766\u003cbr\u003eStudies: 4\u003cbr\u003e\u2500\u2500\u2500\u2500\u2500\u2500\u2500\u2500\u2500\u2500\u2500\u2500\u2500\u003cbr\u003eCRC: 807\u003cbr\u003ePancreatic Cancer: 560","\u003cb\u003eNetherlands\u003c\u002fb\u003e\u003cbr\u003eTotal samples: 75\u003cbr\u003eStudies: 2\u003cbr\u003e\u2500\u2500\u2500\u2500\u2500\u2500\u2500\u2500\u2500\u2500\u2500\u2500\u2500\u003cbr\u003eMelanoma: 75","\u003cb\u003ePoland\u003c\u002fb\u003e\u003cbr\u003eTotal samples: 322\u003cbr\u003eStudies: 2\u003cbr\u003e\u2500\u2500\u2500\u2500\u2500\u2500\u2500\u2500\u2500\u2500\u2500\u2500\u2500\u003cbr\u003eBreast Cancer: 153\u003cbr\u003eLymphoma: 60\u003cbr\u003eLeukemia: 40","\u003cb\u003eSouth Korea\u003c\u002fb\u003e\u003cbr\u003eTotal samples: 149\u003cbr\u003eStudies: 2\u003cbr\u003e\u2500\u2500\u2500\u2500\u2500\u2500\u2500\u2500\u2500\u2500\u2500\u2500\u2500\u003cbr\u003eLymphoma: 149","\u003cb\u003eSpain\u003c\u002fb\u003e\u003cbr\u003eTotal samples: 355\u003cbr\u003eStudies: 3\u003cbr\u003e\u2500\u2500\u2500\u2500\u2500\u2500\u2500\u2500\u2500\u2500\u2500\u2500\u2500\u003cbr\u003ePancreatic Cancer: 253\u003cbr\u003eCRC: 90\u003cbr\u003eMelanoma: 12","\u003cb\u003eSwitzerland\u003c\u002fb\u003e\u003cbr\u003eTotal samples: 29\u003cbr\u003eStudies: 1\u003cbr\u003e\u2500\u2500\u2500\u2500\u2500\u2500\u2500\u2500\u2500\u2500\u2500\u2500\u2500\u003cbr\u003eProstate Cancer: 29","\u003cb\u003eTurkey\u003c\u002fb\u003e\u003cbr\u003eTotal samples: 57\u003cbr\u003eStudies: 1\u003cbr\u003e\u2500\u2500\u2500\u2500\u2500\u2500\u2500\u2500\u2500\u2500\u2500\u2500\u2500\u003cbr\u003eCRC: 18","\u003cb\u003eUnited Kingdom\u003c\u002fb\u003e\u003cbr\u003eTotal samples: 143\u003cbr\u003eStudies: 2\u003cbr\u003e\u2500\u2500\u2500\u2500\u2500\u2500\u2500\u2500\u2500\u2500\u2500\u2500\u2500\u003cbr\u003eMelanoma: 98\u003cbr\u003eProstate Cancer: 45","\u003cb\u003eUnited States\u003c\u002fb\u003e\u003cbr\u003eTotal samples: 2,096\u003cbr\u003eStudies: 13\u003cbr\u003e\u2500\u2500\u2500\u2500\u2500\u2500\u2500\u2500\u2500\u2500\u2500\u2500\u2500\u003cbr\u003eCRC: 836\u003cbr\u003eMelanoma: 607\u003cbr\u003eLymphoma: 122"],"type":"scattergeo"}],                        {"template":{"data":{"histogram2dcontour":[{"type":"histogram2dcontour","colorbar":{"outlinewidth":0,"ticks":""},"colorscale":[[0.0,"#0d0887"],[0.1111111111111111,"#46039f"],[0.2222222222222222,"#7201a8"],[0.3333333333333333,"#9c179e"],[0.4444444444444444,"#bd3786"],[0.5555555555555556,"#d8576b"],[0.6666666666666666,"#ed7953"],[0.7777777777777778,"#fb9f3a"],[0.8888888888888888,"#fdca26"],[1.0,"#f0f921"]]}],"choropleth":[{"type":"choropleth","colorbar":{"outlinewidth":0,"ticks":""}}],"histogram2d":[{"type":"histogram2d","colorbar":{"outlinewidth":0,"ticks":""},"colorscale":[[0.0,"#0d0887"],[0.1111111111111111,"#46039f"],[0.2222222222222222,"#7201a8"],[0.3333333333333333,"#9c179e"],[0.4444444444444444,"#bd3786"],[0.5555555555555556,"#d8576b"],[0.6666666666666666,"#ed7953"],[0.7777777777777778,"#fb9f3a"],[0.8888888888888888,"#fdca26"],[1.0,"#f0f921"]]}],"heatmap":[{"type":"heatmap","colorbar":{"outlinewidth":0,"ticks":""},"colorscale":[[0.0,"#0d0887"],[0.1111111111111111,"#46039f"],[0.2222222222222222,"#7201a8"],[0.3333333333333333,"#9c179e"],[0.4444444444444444,"#bd3786"],[0.5555555555555556,"#d8576b"],[0.6666666666666666,"#ed7953"],[0.7777777777777778,"#fb9f3a"],[0.8888888888888888,"#fdca26"],[1.0,"#f0f921"]]}],"contourcarpet":[{"type":"contourcarpet","colorbar":{"outlinewidth":0,"ticks":""}}],"contour":[{"type":"contour","colorbar":{"outlinewidth":0,"ticks":""},"colorscale":[[0.0,"#0d0887"],[0.1111111111111111,"#46039f"],[0.2222222222222222,"#7201a8"],[0.3333333333333333,"#9c179e"],[0.4444444444444444,"#bd3786"],[0.5555555555555556,"#d8576b"],[0.6666666666666666,"#ed7953"],[0.7777777777777778,"#fb9f3a"],[0.8888888888888888,"#fdca26"],[1.0,"#f0f921"]]}],"surface":[{"type":"surface","colorbar":{"outlinewidth":0,"ticks":""},"colorscale":[[0.0,"#0d0887"],[0.1111111111111111,"#46039f"],[0.2222222222222222,"#7201a8"],[0.3333333333333333,"#9c179e"],[0.4444444444444444,"#bd3786"],[0.5555555555555556,"#d8576b"],[0.6666666666666666,"#ed7953"],[0.7777777777777778,"#fb9f3a"],[0.8888888888888888,"#fdca26"],[1.0,"#f0f921"]]}],"mesh3d":[{"type":"mesh3d","colorbar":{"outlinewidth":0,"ticks":""}}],"scatter":[{"fillpattern":{"fillmode":"overlay","size":10,"solidity":0.2},"type":"scatter"}],"parcoords":[{"type":"parcoords","line":{"colorbar":{"outlinewidth":0,"ticks":""}}}],"scatterpolargl":[{"type":"scatterpolargl","marker":{"colorbar":{"outlinewidth":0,"ticks":""}}}],"bar":[{"error_x":{"color":"#2a3f5f"},"error_y":{"color":"#2a3f5f"},"marker":{"line":{"color":"#E5ECF6","width":0.5},"pattern":{"fillmode":"overlay","size":10,"solidity":0.2}},"type":"bar"}],"scattergeo":[{"type":"scattergeo","marker":{"colorbar":{"outlinewidth":0,"ticks":""}}}],"scatterpolar":[{"type":"scatterpolar","marker":{"colorbar":{"outlinewidth":0,"ticks":""}}}],"histogram":[{"marker":{"pattern":{"fillmode":"overlay","size":10,"solidity":0.2}},"type":"histogram"}],"scattergl":[{"type":"scattergl","marker":{"colorbar":{"outlinewidth":0,"ticks":""}}}],"scatter3d":[{"type":"scatter3d","line":{"colorbar":{"outlinewidth":0,"ticks":""}},"marker":{"colorbar":{"outlinewidth":0,"ticks":""}}}],"scattermap":[{"type":"scattermap","marker":{"colorbar":{"outlinewidth":0,"ticks":""}}}],"scattermapbox":[{"type":"scattermapbox","marker":{"colorbar":{"outlinewidth":0,"ticks":""}}}],"scatterternary":[{"type":"scatterternary","marker":{"colorbar":{"outlinewidth":0,"ticks":""}}}],"scattercarpet":[{"type":"scattercarpet","marker":{"colorbar":{"outlinewidth":0,"ticks":""}}}],"carpet":[{"aaxis":{"endlinecolor":"#2a3f5f","gridcolor":"white","linecolor":"white","minorgridcolor":"white","startlinecolor":"#2a3f5f"},"baxis":{"endlinecolor":"#2a3f5f","gridcolor":"white","linecolor":"white","minorgridcolor":"white","startlinecolor":"#2a3f5f"},"type":"carpet"}],"table":[{"cells":{"fill":{"color":"#EBF0F8"},"line":{"color":"white"}},"header":{"fill":{"color":"#C8D4E3"},"line":{"color":"white"}},"type":"table"}],"barpolar":[{"marker":{"line":{"color":"#E5ECF6","width":0.5},"pattern":{"fillmode":"overlay","size":10,"solidity":0.2}},"type":"barpolar"}],"pie":[{"automargin":true,"type":"pie"}]},"layout":{"autotypenumbers":"strict","colorway":["#636efa","#EF553B","#00cc96","#ab63fa","#FFA15A","#19d3f3","#FF6692","#B6E880","#FF97FF","#FECB52"],"font":{"color":"#2a3f5f"},"hovermode":"closest","hoverlabel":{"align":"left"},"paper_bgcolor":"white","plot_bgcolor":"#E5ECF6","polar":{"bgcolor":"#E5ECF6","angularaxis":{"gridcolor":"white","linecolor":"white","ticks":""},"radialaxis":{"gridcolor":"white","linecolor":"white","ticks":""}},"ternary":{"bgcolor":"#E5ECF6","aaxis":{"gridcolor":"white","linecolor":"white","ticks":""},"baxis":{"gridcolor":"white","linecolor":"white","ticks":""},"caxis":{"gridcolor":"white","linecolor":"white","ticks":""}},"coloraxis":{"colorbar":{"outlinewidth":0,"ticks":""}},"colorscale":{"sequential":[[0.0,"#0d0887"],[0.1111111111111111,"#46039f"],[0.2222222222222222,"#7201a8"],[0.3333333333333333,"#9c179e"],[0.4444444444444444,"#bd3786"],[0.5555555555555556,"#d8576b"],[0.6666666666666666,"#ed7953"],[0.7777777777777778,"#fb9f3a"],[0.8888888888888888,"#fdca26"],[1.0,"#f0f921"]],"sequentialminus":[[0.0,"#0d0887"],[0.1111111111111111,"#46039f"],[0.2222222222222222,"#7201a8"],[0.3333333333333333,"#9c179e"],[0.4444444444444444,"#bd3786"],[0.5555555555555556,"#d8576b"],[0.6666666666666666,"#ed7953"],[0.7777777777777778,"#fb9f3a"],[0.8888888888888888,"#fdca26"],[1.0,"#f0f921"]],"diverging":[[0,"#8e0152"],[0.1,"#c51b7d"],[0.2,"#de77ae"],[0.3,"#f1b6da"],[0.4,"#fde0ef"],[0.5,"#f7f7f7"],[0.6,"#e6f5d0"],[0.7,"#b8e186"],[0.8,"#7fbc41"],[0.9,"#4d9221"],[1,"#276419"]]},"xaxis":{"gridcolor":"white","linecolor":"white","ticks":"","title":{"standoff":15},"zerolinecolor":"white","automargin":true,"zerolinewidth":2},"yaxis":{"gridcolor":"white","linecolor":"white","ticks":"","title":{"standoff":15},"zerolinecolor":"white","automargin":true,"zerolinewidth":2},"scene":{"xaxis":{"backgroundcolor":"#E5ECF6","gridcolor":"white","linecolor":"white","showbackground":true,"ticks":"","zerolinecolor":"white","gridwidth":2},"yaxis":{"backgroundcolor":"#E5ECF6","gridcolor":"white","linecolor":"white","showbackground":true,"ticks":"","zerolinecolor":"white","gridwidth":2},"zaxis":{"backgroundcolor":"#E5ECF6","gridcolor":"white","linecolor":"white","showbackground":true,"ticks":"","zerolinecolor":"white","gridwidth":2}},"shapedefaults":{"line":{"color":"#2a3f5f"}},"annotationdefaults":{"arrowcolor":"#2a3f5f","arrowhead":0,"arrowwidth":1},"geo":{"bgcolor":"white","landcolor":"#E5ECF6","subunitcolor":"white","showland":true,"showlakes":true,"lakecolor":"white"},"title":{"x":0.05},"mapbox":{"style":"light"}}},"geo":{"projection":{"type":"natural earth"},"showframe":false,"showcoastlines":true,"coastlinecolor":"grey","showland":true,"landcolor":"#F5F5F2","showocean":true,"oceancolor":"#EAF2F8","showlakes":false,"bgcolor":"#EAF2F8"},"margin":{"l":0,"r":0,"t":30,"b":0},"title":{"font":{"size":16},"text":"Global distribution of cancer microbiome studies","x":0.5},"hoverlabel":{"font":{"size":13,"family":"Arial"},"bgcolor":"white"},"height":500,"paper_bgcolor":"white"},                        {"responsive": true}                    )                };            </script>        </div>
 </body>
 </html>

diff --git a/index.html b/index.html
@@ -459,7 +459,7 @@
 
 
 <h1 id="curatedmetagenomicdata-cancer-datasets-overview">curatedMetagenomicData -- Cancer Datasets Overview</h1>
-<p><em>Last updated: 2026-09-08 12:38 UTC</em></p>
+<p><em>Last updated: 2026-09-08 13:07 UTC</em></p>
 <h2 id="summary">Summary</h2>
 <table>
 <thead>
@@ -471,7 +471,7 @@
 <tbody>
 <tr>
 <td><strong>Studies</strong></td>
-<td>58</td>
+<td>60</td>
 </tr>
 <tr>
 <td><strong>Countries represented</strong></td>
@@ -479,19 +479,19 @@
 </tr>
 <tr>
 <td><strong>Total samples</strong></td>
-<td>10,415</td>
+<td>10,778</td>
 </tr>
 <tr>
 <td><strong>Subjects</strong></td>
-<td>9,529 <sup id="fnref:denominator"><a class="footnote-ref" href="#fn:denominator">1</a></sup></td>
+<td>9,892 <sup id="fnref:denominator"><a class="footnote-ref" href="#fn:denominator">1</a></sup></td>
 </tr>
 <tr>
 <td>Cancer-related samples</td>
-<td>8,647 (6,615 malignant, 2,032 precursor lesions)</td>
+<td>8,825 (6,793 malignant, 2,032 precursor lesions)</td>
 </tr>
 <tr>
 <td>Non-cancer / control samples</td>
-<td>1,656</td>
+<td>1,841</td>
 </tr>
 <tr>
 <td>Studies with repeated sampling per subject</td>
@@ -499,23 +499,23 @@
 </tr>
 <tr>
 <td>Male subjects</td>
-<td>3,836 (52.0%)</td>
+<td>3,935 (52.2%)</td>
 </tr>
 <tr>
 <td>Female subjects</td>
-<td>3,540 (48.0%)</td>
+<td>3,603 (47.8%)</td>
 </tr>
 <tr>
 <td>Subjects with sex information</td>
-<td>7,376 / 9,529 (77.4%) — available in 41 / 58 studies</td>
+<td>7,538 / 9,892 (76.2%) — available in 42 / 60 studies</td>
 </tr>
 <tr>
 <td>Subjects with age information</td>
-<td>6,539 / 9,529 (68.6%) — available in 40 / 58 studies</td>
+<td>6,702 / 9,892 (67.8%) — available in 41 / 60 studies</td>
 </tr>
 <tr>
 <td>Subjects with BMI information</td>
-<td>6,016 / 9,529 (63.1%) — available in 34 / 58 studies</td>
+<td>6,179 / 9,892 (62.5%) — available in 35 / 60 studies</td>
 </tr>
 </tbody>
 </table>
@@ -576,64 +576,64 @@ total above. They are counted separately in the breakdown.</p>
 <td style="text-align: left;">LeeKA_2022</td>
 </tr>
 <tr>
+<td style="text-align: left;">LiuNN_2022</td>
 <td style="text-align: left;">LubekaN_2024</td>
 <td style="text-align: left;">LuoY_2024</td>
 <td style="text-align: left;">MatsonV_2018</td>
-<td style="text-align: left;">McCulloughJA_2022</td>
 </tr>
 <tr>
+<td style="text-align: left;">McCulloughJA_2022</td>
 <td style="text-align: left;">NagataN_2022</td>
 <td style="text-align: left;">NileS_2025</td>
 <td style="text-align: left;">NofinskaB_2026</td>
-<td style="text-align: left;">PernigoniN_2021</td>
 </tr>
 <tr>
+<td style="text-align: left;">PernigoniN_2021</td>
 <td style="text-align: left;">PetersBA_2019</td>
 <td style="text-align: left;">PiccinnoG_2025_a</td>
 <td style="text-align: left;">PiccinnoG_2025_b</td>
-<td style="text-align: left;">PiccinnoG_2025_c</td>
 </tr>
 <tr>
+<td style="text-align: left;">PiccinnoG_2025_c</td>
 <td style="text-align: left;">PiccinnoG_2025_d</td>
 <td style="text-align: left;">PiccinnoG_2025_e</td>
 <td style="text-align: left;">PiccinnoG_2025_f</td>
-<td style="text-align: left;">PoetgensS_2024</td>
 </tr>
 <tr>
+<td style="text-align: left;">PoetgensS_2024</td>
 <td style="text-align: left;">RoelandsJ_2023</td>
 <td style="text-align: left;">RoutyB_2018</td>
 <td style="text-align: left;">Routy_2023</td>
-<td style="text-align: left;">ShiZ_2025</td>
 </tr>
 <tr>
+<td style="text-align: left;">ShiZ_2025</td>
 <td style="text-align: left;">SpanogiannopoulosP_2022</td>
 <td style="text-align: left;">SpencerCN_2021</td>
 <td style="text-align: left;">Stein-ThoeringerCK_2023</td>
-<td style="text-align: left;">TengNM_2024</td>
 </tr>
 <tr>
+<td style="text-align: left;">TengNM_2024</td>
 <td style="text-align: left;">ThomasAM_2019_a</td>
 <td style="text-align: left;">ThomasAM_2019_b</td>
 <td style="text-align: left;">ThomasAM_2019_c</td>
-<td style="text-align: left;">VogtmannE_2016</td>
 </tr>
 <tr>
+<td style="text-align: left;">VogtmannE_2016</td>
 <td style="text-align: left;">WindTT_2020</td>
 <td style="text-align: left;">WirbelJ_2018</td>
 <td style="text-align: left;">XuJ_2022</td>
-<td style="text-align: left;">YachidaS_2019</td>
 </tr>
 <tr>
+<td style="text-align: left;">YachidaS_2019</td>
 <td style="text-align: left;">YangJ_2020</td>
+<td style="text-align: left;">YangY_2021</td>
 <td style="text-align: left;">YoonS_2023</td>
+</tr>
+<tr>
 <td style="text-align: left;">YoonS_2025</td>
 <td style="text-align: left;">YuJ_2015</td>
-</tr>
-<tr>
 <td style="text-align: left;">ZellerG_2014</td>
 <td style="text-align: left;">ZhangY_2023</td>
-<td style="text-align: left;"></td>
-<td style="text-align: left;"></td>
 </tr>
 </tbody>
 </table>
@@ -642,7 +642,7 @@ total above. They are counted separately in the breakdown.</p>
 <ol>
 <li id="fn:denominator">
 <p>4,940 of these have an explicit subject identifier in the
-source metadata. 18 studies do not record subject IDs, so each of
+source metadata. 20 studies do not record subject IDs, so each of
 their samples counts as one subject and the true number of distinct people is lower.&#160;<a class="footnote-backref" href="#fnref:denominator" title="Jump back to footnote 1 in the text">&#8617;</a></p>
 </li>
 <li id="fn:repeated">
